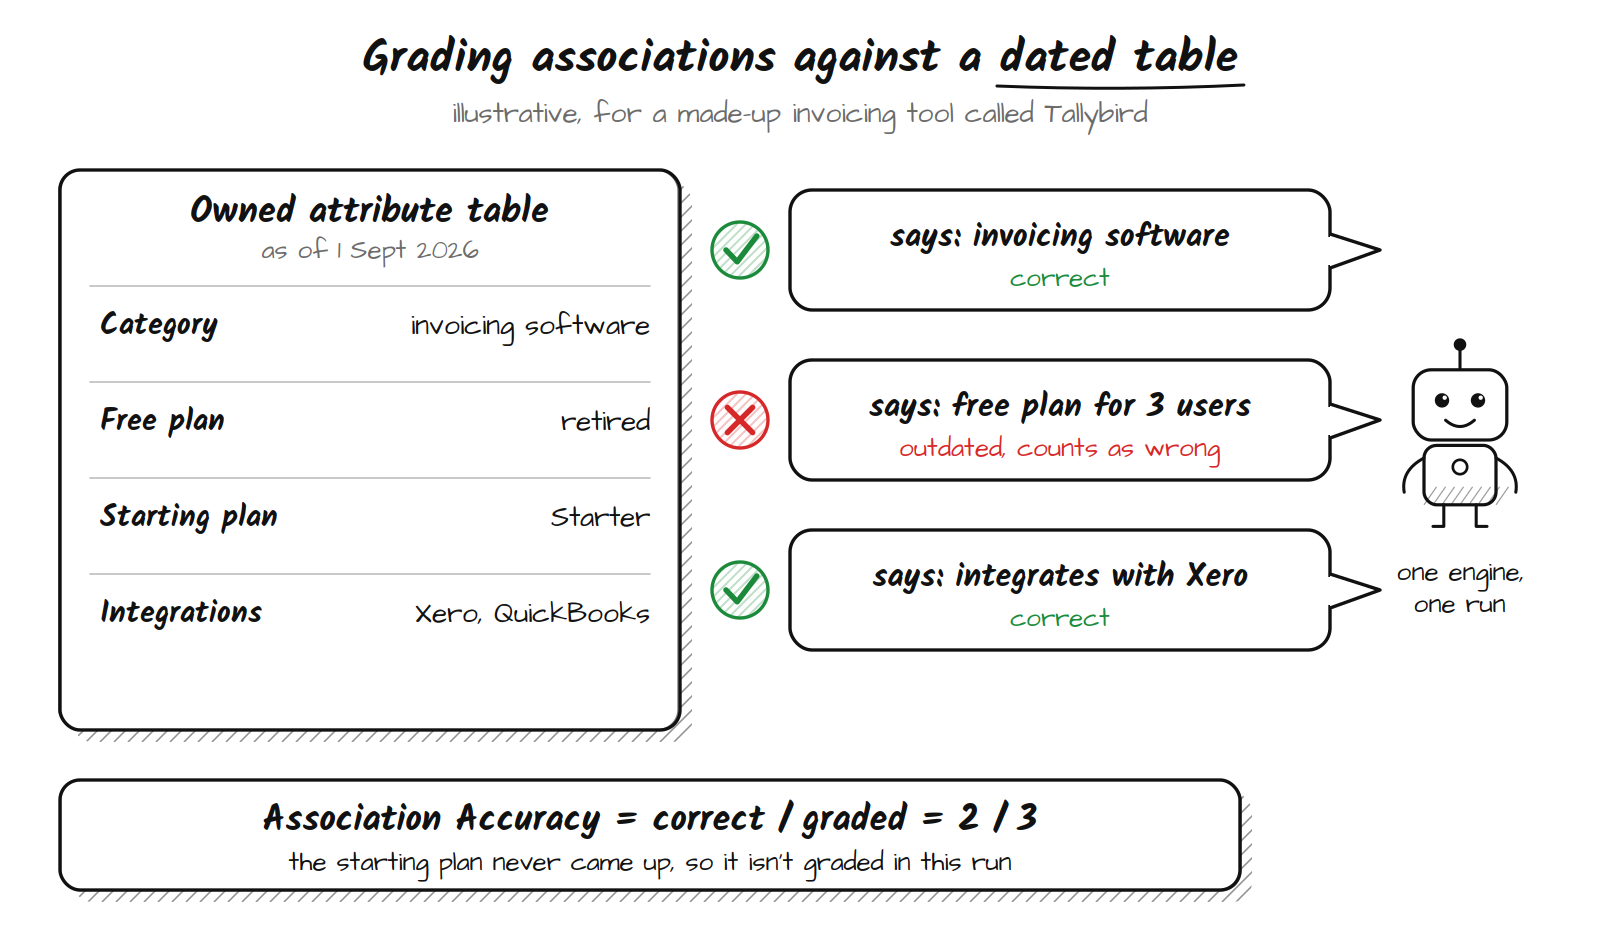
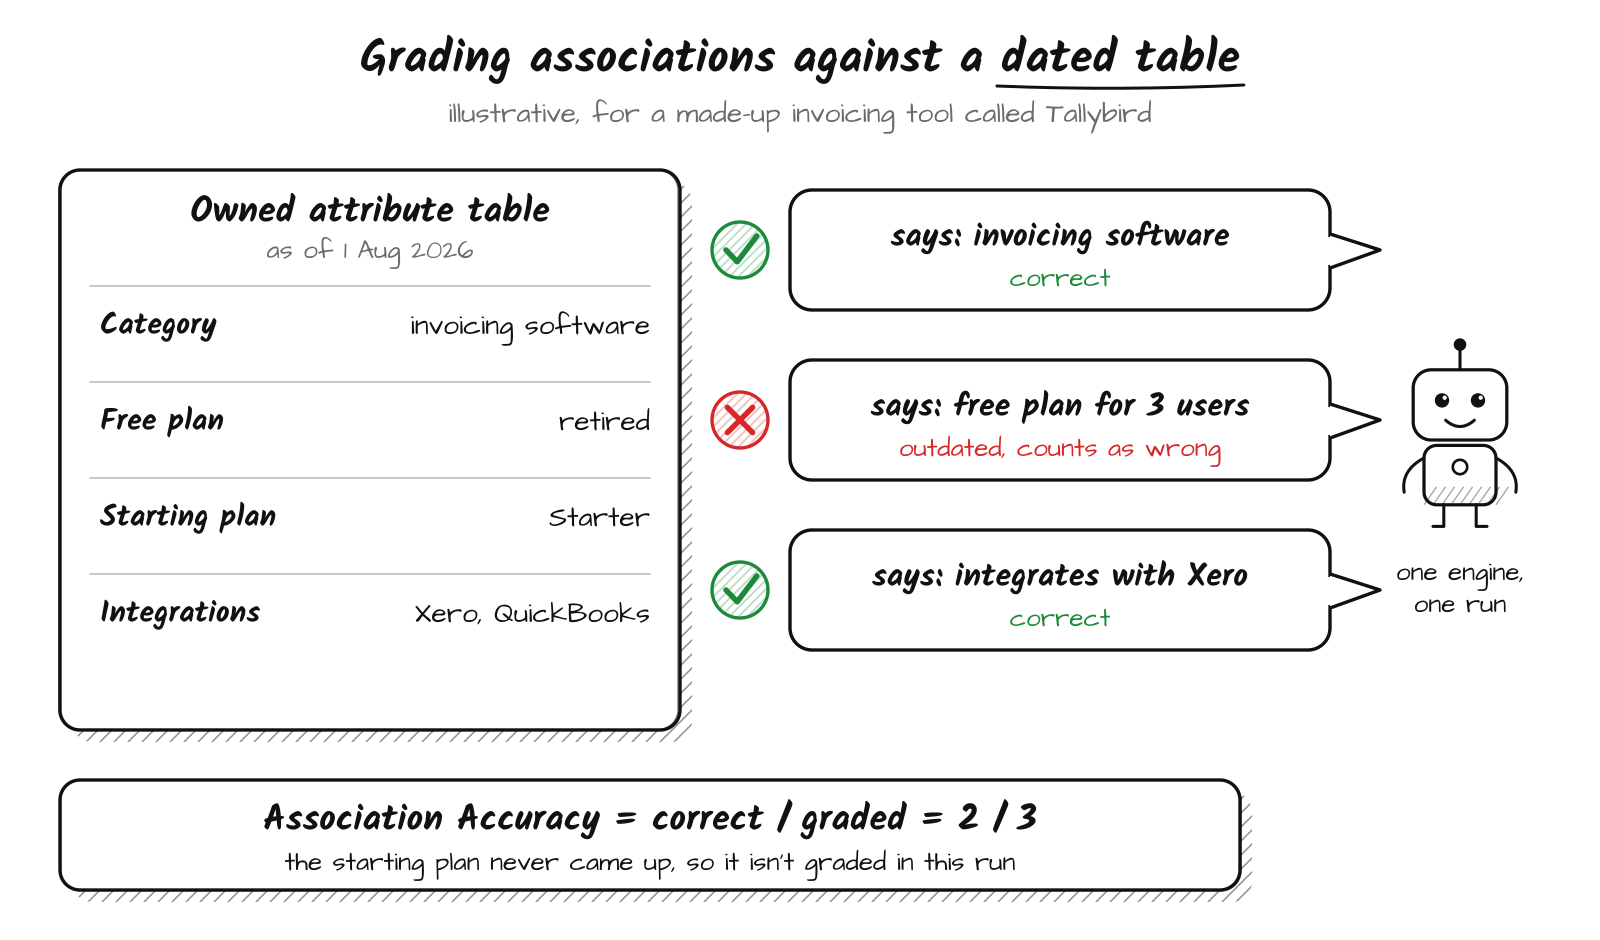
Add direct answers to the R2A and BERAP posts; date the BERAP table August
Both posts get an answerQ/answerA pair so the speakable answer block
renders and answers.json indexes them. The BERAP figure 3 attribute
table now reads "as of 1 Aug 2026" in the image and "dated 1 August
2026" in the alt text, so it no longer post-dates the 27 August post.
The figure was re-rendered from its SVG source with the same fonts.

diff --git a/src/posts/berap-map.md b/src/posts/berap-map.md
@@ -7,6 +7,8 @@ description: "BERAP probes AI engines with repeated prompts and grades answers a
 readTime: "7 min"
 image: "/static/uploads/berap-fig2-six-scores.png"
 imageAlt: "Sketch-note grid of six gauges labelled Recall Rate, Association Accuracy, Evidence Recall, Stability, Attribute Penetration and Source Dependency"
+answerQ: "What is the BERAP Map?"
+answerA: "BERAP (Brand Entity Recall & Association Probing) is the instrument inside the R2A Content Framework that measures what AI engines say about a brand, whether the answer came from retrieval or from training. It runs repeated prompts across five engines in two directions, grades each answer against a dated attribute table, and reports six scores: Recall Rate, Association Accuracy, Evidence Recall, Stability, Attribute Penetration and Source Dependency."
 layer: "core"
 starter: false
 ---
@@ -65,7 +67,7 @@ If that sounds like an entity-attribute-value record, it is one. Koray Tuğberk 
 <figure>
   <picture>
     <source srcset="/static/uploads/berap-fig3-association-grading.webp" type="image/webp">
-    <img src="/static/uploads/berap-fig3-association-grading.png" alt="Sketch-note diagram for a made-up brand called Tallybird: an owned attribute table dated 1 September 2026 lists category invoicing software, free plan retired, starting plan Starter, integrations Xero and QuickBooks; three speech bubbles from a robot are graded, invoicing software correct with a green check, free plan for 3 users outdated and counted wrong with a red cross, integrates with Xero correct with a green check; a box reads Association Accuracy equals 2 over 3" width="1600" height="940" loading="lazy">
+    <img src="/static/uploads/berap-fig3-association-grading.png" alt="Sketch-note diagram for a made-up brand called Tallybird: an owned attribute table dated 1 August 2026 lists category invoicing software, free plan retired, starting plan Starter, integrations Xero and QuickBooks; three speech bubbles from a robot are graded, invoicing software correct with a green check, free plan for 3 users outdated and counted wrong with a red cross, integrates with Xero correct with a green check; a box reads Association Accuracy equals 2 over 3" width="1600" height="940" loading="lazy">
   </picture>
   <figcaption>Figure 3. Grading one illustrative response. The free-plan claim was true once, so it's outdated, and outdated counts as wrong.</figcaption>
 </figure>

diff --git a/src/posts/r2a-content-framework.md b/src/posts/r2a-content-framework.md
@@ -7,6 +7,8 @@ description: "A practitioner framework for scoring whether AI systems can retrie
 readTime: "8 min"
 image: "/static/uploads/r2a-fig2-layer-structure.png"
 imageAlt: "Sketch-note diagram of the R2A Content Framework: six independent layers sitting on an Eligibility gate, all resting on a Measurement base layer"
+answerQ: "What is the R2A Content Framework?"
+answerA: "R2A (Retrieval-to-Action) is Khadija Zaman's practitioner framework for scoring whether AI systems can retrieve, select, cite and act on a page. It has eight layers: Measurement as the base, Eligibility as the only hard gate, and six independently scored layers, with every recommendation carrying one of five evidence grades."
 layer: "core"
 starter: false
 ---
